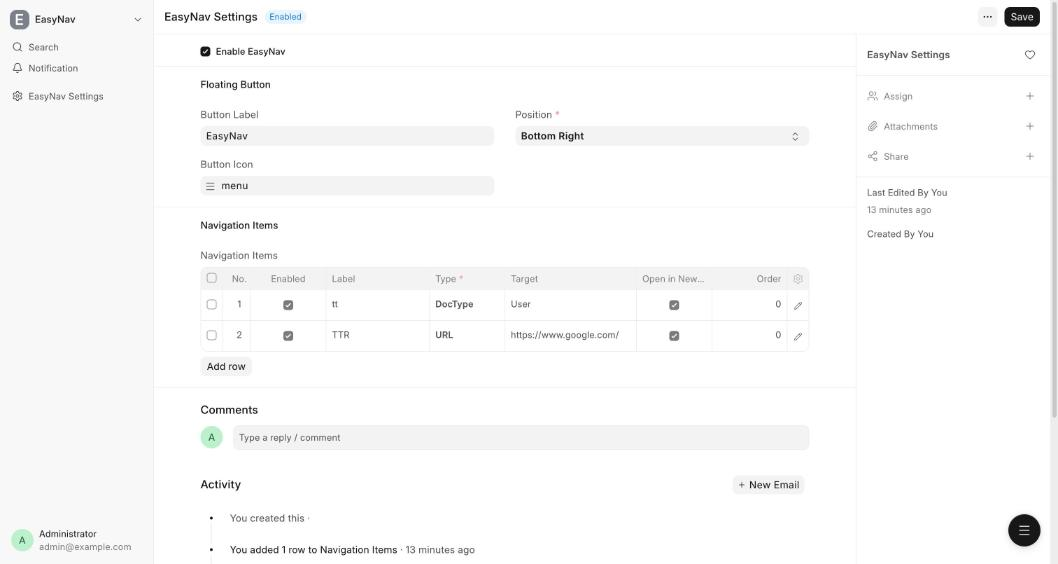
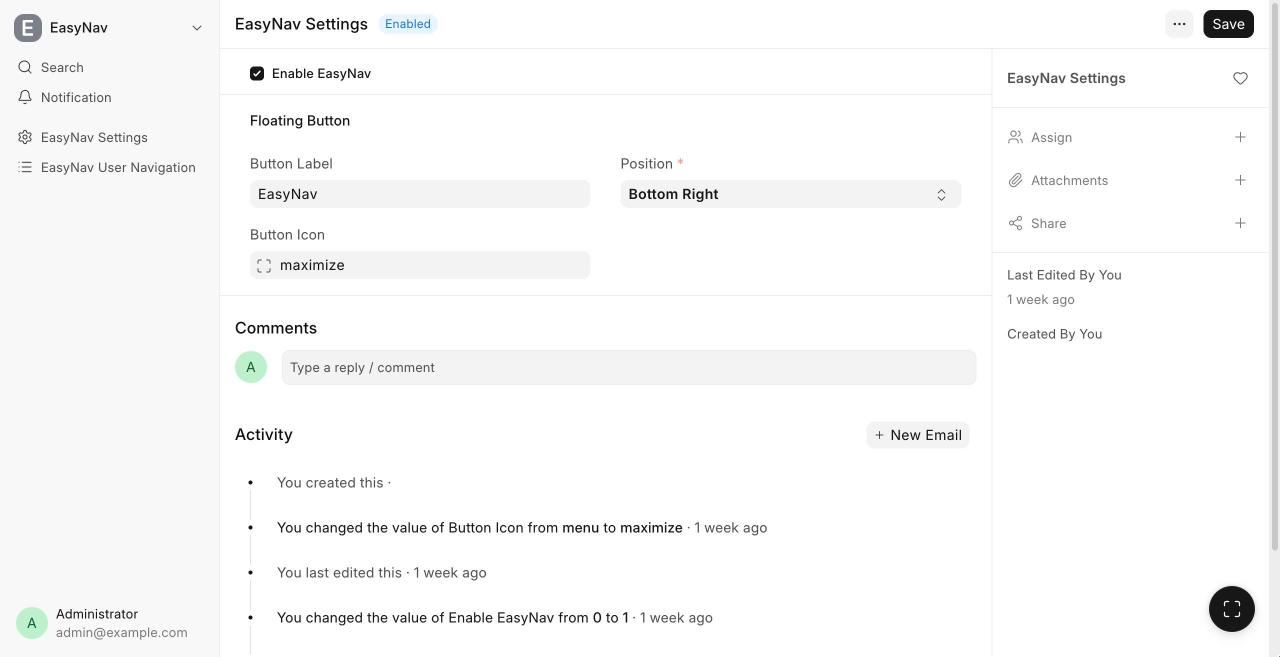
docs: rewrite README as a user guide for per-user shortcuts
Walk through building a menu step by step, explain the per-user lists,
EasyNav Settings, support access for System Managers and troubleshooting.
Replace the old screenshots, which still showed the shared menu and the
Navigation Items table, with new ones taken from a running site.

diff --git a/README.md b/README.md
@@ -2,16 +2,116 @@
 
 EasyNav is a custom Frappe app that adds one **global floating navigation button** to every Desk page. Every user builds their own menu of shortcuts from the button itself, so no code changes or administrator help are needed.
 
-![EasyNav menu open on the Desk home](docs/images/menu-open.jpg)
+![Asha's personal EasyNav menu open on the Desk home](docs/images/menu-open.jpg)
 
 - Quick access to **DocTypes, Pages, Reports, Dashboards and external URLs**
 - **Personal**: each user adds, edits and orders their own shortcuts, and nobody else sees them
-- Site-wide options (enable/disable, button label, icon, position) are set in **EasyNav Settings**
+- Site-wide options (enable/disable, button label, icon, position) are set in [**EasyNav Settings**](#easynav-settings)
 - **Respects Frappe permissions**: users only see items they are allowed to open
 
-## Using the menu
+## Contents
 
-The floating button appears on every Desk page for logged-in users.
+- [How it fits together](#how-it-fits-together)
+- [Getting started: build your menu](#getting-started-build-your-menu)
+- [Every user has their own menu](#every-user-has-their-own-menu)
+- [Using the menu](#using-the-menu)
+- [Navigation items](#navigation-items)
+- [EasyNav Settings](#easynav-settings)
+- [Support access for System Managers](#support-access-for-system-managers)
+- [Permissions](#permissions)
+- [Troubleshooting](#troubleshooting)
+- [Upgrading from the shared menu](#upgrading-from-the-shared-menu)
+
+## How it fits together
+
+EasyNav adds three DocTypes to the **EasyNav** module:
+
+| DocType | What it holds | Who uses it |
+|---|---|---|
+| **EasyNav Settings** | One record for the site: enable switch, button label, icon and position | System Managers |
+| **EasyNav User Navigation** | One record per user: that user's shortcuts, shown to them as **My Shortcuts** | Every Desk user, for their own record; System Managers for anyone's |
+| **EasyNav Item** | One row in a user's shortcut table (child table, not opened on its own) | Edited inside My Shortcuts |
+
+When a user loads Desk, EasyNav combines the site settings with that user's enabled items, drops any item the user is not allowed to open, and draws the button and menu.
+
+## Getting started: build your menu
+
+This walkthrough follows Asha, a sales user with the *Sales User* and *Stock User* roles, as she sets up her menu for the first time. Any Desk user can do the same; no administrator is involved.
+
+### 1. Find the button
+
+The floating button sits in a corner of every Desk page (bottom right by default). A new user has no shortcuts yet, so clicking the button shows a short hint instead of a menu:
+
+![A new user's menu: "No shortcuts yet. Right-click the button to add some."](docs/images/empty-menu.jpg)
+
+The button's icon, label and corner are chosen by a System Manager in [EasyNav Settings](#easynav-settings). This site uses the `maximize` icon; the default is `menu`.
+
+### 2. Open your shortcuts
+
+**Right-click the button.** On a touch screen, press and hold it instead; on a keyboard, focus it and press the context-menu key. There is no separate edit button. Hovering the button shows a tooltip as a reminder (*EasyNav · Right-click to edit your shortcuts*).
+
+The first time, EasyNav creates your list and opens it. The page is titled **My Shortcuts**:
+
+![The empty My Shortcuts form](docs/images/my-shortcuts-new.jpg)
+
+### 3. Add a shortcut
+
+Click **Add row**, then the pencil icon at the end of the row to edit it in full. Enter a **Label**, choose a **Type** and pick what it opens in **Link To**.
+
+The Link To suggestions only list records you are allowed to open. Here Asha types `sales` and is offered the sales DocTypes her roles can read:
+
+![Typing in Link To shows only DocTypes the user can open](docs/images/row-editor-suggestions.jpg)
+
+### 4. Choose how it opens
+
+The fields below Type change with the type you choose. A **DocType** item gets a **DocType View** (List, Report Builder, New, Kanban and so on); leave it blank for the default view.
+
+![A DocType row: Sales Orders opens the Sales Order list](docs/images/row-editor.jpg)
+
+A **URL** item gets a URL field instead. It can be an external `https://` address or a path on this site starting with `/`. Asha's link to the ERPNext selling manual uses its own icon and opens in a new tab:
+
+![A URL row with a custom icon, opening in a new tab](docs/images/row-editor-url.jpg)
+
+All the fields are described under [Navigation items](#navigation-items).
+
+### 5. Save
+
+Add the rest of your shortcuts and click **Save**. Set **Order** to control the sequence (lower first). Untick **Enabled** to keep a row as a draft: it is saved but not shown in the menu, and it may be left incomplete. Asha's *Delivery Trips (draft)* row below has no target yet.
+
+![Asha's saved list with seven rows, one of them a disabled draft](docs/images/my-shortcuts.jpg)
+
+The menu updates as soon as you save; there is no need to reload.
+
+### 6. Use your menu
+
+Click the button. Asha's menu now lists her six enabled shortcuts in order, each with an icon for its type (the draft is left out):
+
+![Asha's menu with her six shortcuts](docs/images/menu-open.jpg)
+
+| Asha's item | Type | Opens |
+|---|---|---|
+| Sales Orders | DocType, view List | Sales Order list |
+| New Customer | DocType, view New | A new Customer form |
+| Item Report | DocType, view Report Builder | Item in Report Builder |
+| Stock Balance | Report | The Stock Balance report |
+| Sales Analytics | Report | The Sales Analytics report |
+| Selling Manual | URL, new tab | The ERPNext selling manual |
+
+To change your shortcuts later, right-click the button again.
+
+## Every user has their own menu
+
+Each user's shortcuts are stored in their own **EasyNav User Navigation** record. Ravi, an accountant with the *Accounts User* role, built his own list in the same way. On the same site, his button opens a completely different menu:
+
+![Ravi's menu: Sales Invoices, New Payment Entry, General Ledger, Accounts Receivable, Point of Sale](docs/images/menu-other-user.jpg)
+
+Neither user can see the other's list. If Ravi opens the **EasyNav User Navigation** list (`/desk/easynav-user-navigation`), the only row is his own:
+
+![An ordinary user sees only their own list](docs/images/list-own-only.jpg)
+
+For an ordinary user, **Add EasyNav User Navigation** simply opens their own list, since each user has exactly one.
+
+## Using the menu
 
 | Action | Result |
 |---|---|
@@ -20,47 +120,22 @@ The floating button appears on every Desk page for logged-in users.
 | Hover the button (mouse only) | Opens the menu; it closes when the pointer leaves |
 | `ArrowDown` / `ArrowUp` | Moves through the menu items |
 | Click an item | Opens it, in the same tab or a new tab as configured |
-| Right-click the button (press and hold on touch screens) | Opens your own list of shortcuts |
 | Ctrl/Cmd-click or middle-click an item | Opens it in a new browser tab |
+| Right-click the button (press and hold on touch screens) | Opens **My Shortcuts**, your own list |
 
 The menu closes automatically when you move to another Desk page. The button is not shown on printed pages, and it sits behind open dialogs.
 
-The button is hidden only when EasyNav is disabled in the settings. A user with no shortcuts still sees it: the menu then says **No shortcuts yet** and explains how to add some.
-
-## Your shortcuts
-
-Right-click the floating button, or press and hold it on a touch screen. There is no separate edit button; the floating button's tooltip is the reminder. This opens **My Shortcuts**, your own list. Add rows to the table and save; the menu updates straight away.
-
-- The list belongs to you. Other users cannot see or change it, and you cannot see theirs.
-- You can keep up to **30** items.
-- The fields of each row are described under [Navigation items](#navigation-items).
-
-## Site-wide settings
-
-Open **EasyNav Settings** (`/desk/easynav-settings`, System Manager only).
-
-![EasyNav Settings](docs/images/settings.jpg)
-
-| Field | Purpose |
-|---|---|
-| Enable EasyNav | Turns the button on or off for everyone |
-| Button Label | Tooltip / accessible name of the button (defaults to `EasyNav`) |
-| Button Icon | Icon of the floating button (defaults to `menu`) |
-| Position | Bottom Right (default), Bottom Left, Top Right, Top Left |
-
-These options apply to everyone. Saved changes show up immediately for the person who saved them. Other users see them the next time they load Desk.
-
-System Managers can also open **EasyNav User Navigation** (`/desk/easynav-user-navigation`) to view or fix any user's list. They can add a list for a user who does not have one yet: click **Add**, pick the user and fill in the items. Each user has at most one list.
-
-Other users see only their own row there, and **Add** simply opens their own list.
+The button is hidden only when EasyNav is disabled in the settings. A user with no shortcuts still sees it, so there is always a way to add some.
 
 ## Navigation items
+
+Each row of **My Shortcuts** is one menu item. A list can hold up to **30** items.
 
 | Field | Notes |
 |---|---|
 | Enabled | Disabled rows are never shown and may be left incomplete, so you can keep drafts |
 | Label | Text shown in the menu |
-| Icon | Optional icon name (letters, digits, `_`, `-`). Falls back to a default per type |
+| Icon | Optional icon name from Frappe's icon set (letters, digits, `_`, `-`), e.g. `book-open`. Blank uses the default for the type |
 | Type | `DocType`, `Page`, `Report`, `Dashboard` or `URL` |
 | Link To | Shown for `DocType`, `Page`, `Report` and `Dashboard`: pick the record of that type to open. Only records you are allowed to open are suggested |
 | DocType View | Shown for `DocType` only: `List`, `Report Builder`, `Dashboard`, `Tree`, `New`, `Calendar`, `Kanban` or `Image`. Blank opens the default view |
@@ -69,19 +144,25 @@ Other users see only their own row there, and **Add** simply opens their own lis
 | Open in New Tab | Opens in a new browser tab |
 | Order | Lower first. Items with no order (blank or `0`) follow in row order |
 
-Where each type takes the user:
+Changing an item's Type clears the values that belonged to the old type (Link To, URL, DocType View and Kanban Board).
 
-| Type | Opens |
-|---|---|
-| DocType | The chosen DocType View (the list view when blank), or the form for Single DocTypes |
-| Page | The Desk page |
-| Report | The report view (Query/Script reports and Report Builder reports) |
-| Dashboard | The dashboard view |
-| URL | The URL, either an external site or a path on this site |
+Where each type takes the user, and the icon it gets when Icon is blank:
+
+| Type | Opens | Default icon |
+|---|---|---|
+| DocType | The chosen DocType View (the list view when blank), or the form for Single DocTypes | list |
+| Page | The Desk page | layout-dashboard |
+| Report | The report view (Query/Script reports and Report Builder reports) | chart-bar |
+| Dashboard | The dashboard view | layout-dashboard |
+| URL | The URL, either an external site or a path on this site | external-link |
 
 ### Validation
 
-A list is checked on save, and the row with the problem is named in the error:
+A list is checked on save. If something is wrong, nothing is saved and the error names the row with the problem. Here a URL row using `javascript:` is rejected:
+
+![Saving is refused: "Row #8: Only http(s) URLs and paths starting with / are allowed"](docs/images/validation-error.jpg)
+
+The checks are:
 
 - Enabled rows need a label, plus a Link To (or a URL for `URL` rows).
 - The DocType, Page, Report or Dashboard in Link To must exist. Child-table DocTypes are rejected.
@@ -91,6 +172,47 @@ A list is checked on save, and the row with the problem is named in the error:
 - A list can hold at most 30 items.
 
 If a target is deleted or renamed after the list was saved, that item is left out of the menu and the rest keep working.
+
+## EasyNav Settings
+
+**EasyNav Settings** is a Single DocType: one record for the whole site, at `/desk/easynav-settings`. Only System Managers can open it. It controls the floating button that every user sees. The shortcuts themselves are not here; each user keeps their own in [My Shortcuts](#getting-started-build-your-menu).
+
+![EasyNav Settings with Enable EasyNav, Button Label, Button Icon and Position](docs/images/settings.jpg)
+
+| Field | Type | Default | What it does |
+|---|---|---|---|
+| Enable EasyNav | Check | On | Shows or hides the floating button for every user, System Managers included. Turning it off keeps everyone's shortcuts; they come back when it is turned on again |
+| Button Label | Data | `EasyNav` | The button's tooltip (*EasyNav · Right-click to edit your shortcuts*) and its accessible name for screen readers. Blank falls back to `EasyNav` |
+| Button Icon | Icon | `menu` | The icon drawn on the button, chosen from Frappe's icon picker. An unknown icon name falls back to `menu` |
+| Position | Select | Bottom Right | The corner of the screen the button sits in: Bottom Right, Bottom Left, Top Right or Top Left |
+
+### Choosing the button icon
+
+Click **Button Icon** to open the icon picker, then search by name or pick from the grid. This site uses `maximize`, which is why the screenshots in this guide show a frame icon instead of the default menu icon.
+
+![The Button Icon picker](docs/images/settings-icon-picker.jpg)
+
+### When changes take effect
+
+After **Save**, the button updates straight away for the System Manager who saved. Other users see the change the next time they load or reload Desk.
+
+### What moved out of the settings
+
+In 1.x, EasyNav Settings also had a **Navigation Items** table holding one menu for everyone. That table is gone:
+
+- Each user's shortcuts live in their own **EasyNav User Navigation** record. See [Every user has their own menu](#every-user-has-their-own-menu).
+- System Managers who need to look at or fix someone's shortcuts use [support access](#support-access-for-system-managers), not the settings.
+- The old shared items are deleted on upgrade. See [Upgrading from the shared menu](#upgrading-from-the-shared-menu).
+
+## Support access for System Managers
+
+System Managers can open **EasyNav User Navigation** (`/desk/easynav-user-navigation`) to see every user's list, for example to help someone set up their menu or remove a broken item.
+
+- **View or change a list**: open the user's row. A blue note at the top of the form reads *You are editing the shortcuts of &lt;user&gt;* so it is clear the list is not your own. Your own list is still titled **My Shortcuts**.
+- **Create a list for a user**: click **Add**, pick the **User** and fill in the items. Each user has at most one list.
+- **Delete a list**: only System Managers can delete one. The user starts again with an empty menu.
+
+Edits to someone else's list are recorded in the document history. The user sees them the next time they load Desk. Items they are not allowed to open stay hidden from them, whoever added them.
 
 ## Permissions
 
@@ -105,14 +227,26 @@ EasyNav is not a permission system. It only hides menu items the current user ca
 | URL | Always |
 
 - Only System Managers can view or change EasyNav Settings.
-- A user can only read and change their own shortcuts. System Managers can view, add, change and delete any user's list, and those edits are recorded in the document history.
+- A user can only read and change their own shortcuts. They can create one list, for themselves, and cannot delete it.
+- System Managers can view, add, change and delete any user's list, and those edits are recorded in the document history.
+- A user's list is deleted when the user is deleted, and follows the user when they are renamed.
 - If someone else adds an item to your list that you are not allowed to open, it is not shown to you.
 - Guests never see the button.
 - Links using `javascript:`, `data:` and similar schemes are blocked.
 
+## Troubleshooting
+
+| Problem | Cause and fix |
+|---|---|
+| I can't see the button | EasyNav is disabled in EasyNav Settings, you are not logged in, or you are on a print view |
+| The menu says *No shortcuts yet* | Your list is empty, or none of its items are enabled. Right-click the button to add some |
+| An item I saved is missing from the menu | The row is not Enabled, you lack permission to open its target, or the target was deleted or renamed |
+| *Could not find Row #n: Link To: …* on save | The Link To value does not exist on this site. Pick it from the suggestions instead of typing it |
+| Changes made by a System Manager don't show | Reload Desk; they appear the next time you load it |
+
 ## Upgrading from the shared menu
 
-Earlier versions had one menu for everyone, configured in EasyNav Settings. That shared list is **not carried over**: `bench migrate` deletes it, and every user starts with an empty menu. Note down the old items before upgrading if users will want to re-create them.
+Earlier versions had one menu for everyone, configured in EasyNav Settings. That shared list is **not carried over**: `bench migrate` deletes it, and every user starts with an empty menu. Note down the old items before upgrading if users will want to re-create them. See [RELEASE_NOTES.md](RELEASE_NOTES.md) for everything that changed in 2.0.0.
 
 ## License
 
